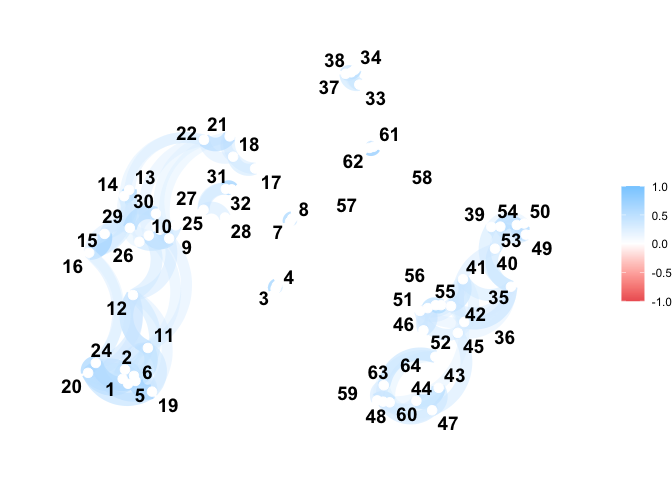
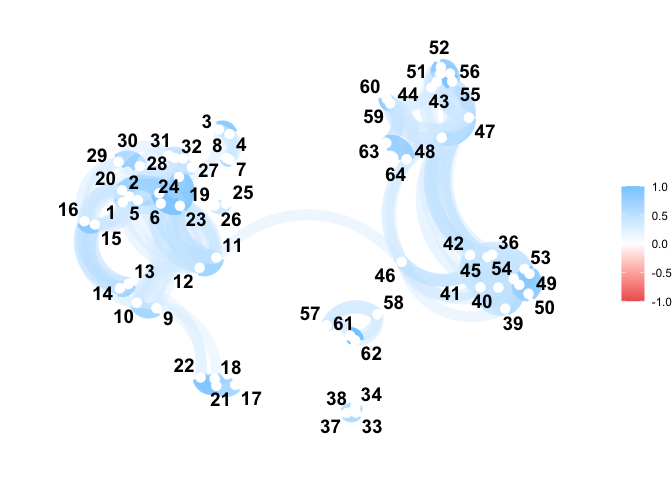
Update README.

diff --git a/README.md b/README.md
@@ -24,8 +24,9 @@ methods for QTS samples are currently:
 - [`mean()`](https://lmjl-alea.github.io/squat/reference/mean.qts_sample.html),
 - [`median()`](https://lmjl-alea.github.io/squat/reference/median.qts_sample.html),
 - distance matrix computation via
-  [`distDTW()`](https://lmjl-alea.github.io/squat/reference/distDTW.html)
-  (i.e. for now we use the dynamic time warping),
+  [`dist()`](https://lmjl-alea.github.io/squat/reference/dist.html)
+  including the possibility of separating amplitude and phase
+  variability,
 - tangent principal component analysis via
   [`prcomp()`](https://lmjl-alea.github.io/squat/reference/prcomp.qts_sample.html),
 - k-means with optional alignment via
@@ -93,8 +94,10 @@ plot(sample_and_mean, highlighted = c(rep(FALSE, 64), TRUE))
 You can compute the pairwise distance matrix (based on the DTW for now):
 
 ``` r
-D <- dist(vespa64$igp, metric = "dtw")
-C <- exp(-D / (sqrt(2) * 4 * bw.SJ(D))) |> 
+D <- dist(vespa64$igp, metric = "l2", warping_class = "srsf")
+C <- exp(-D / (sqrt(2) * sd(D)))
+C <- (C - min(C)) / diff(range(C))
+C <- C |> 
   as.matrix() |> 
   corrr::as_cordf()
 corrr::network_plot(C)
@@ -131,51 +134,14 @@ screeplot(tpca)
 You can finally perform a k-means clustering and visualize it:
 
 ``` r
-km <- kmeans(vespa64$igp, k = 2)
+km <- kmeans(vespa64$igp, n_clusters = 2, warping_class = "srsf")
 #> ℹ Computing initial centroids using kmeans++ strategy...
-#> Information about the data set:
-#>  - Number of observations: 64
-#>  - Number of dimensions: 3
-#>  - Number of points: 101
-#> 
-#> Information about cluster initialization:
-#>  - Number of clusters: 1
-#>  - Initial seeds for cluster centers:         21
-#> 
-#> Information about the methods used within the algorithm:
-#>  - Warping method: affine
-#>  - Center method: mean
-#>  - Dissimilarity method: l2
-#>  - Optimization method: bobyqa
-#> 
-#> Information about warping parameter bounds:
-#>  - Warping options:    0.1500   0.1500
-#> 
-#> Information about convergence criteria:
-#>  - Maximum number of iterations: 100
-#>  - Distance relative tolerance: 0.001
-#> 
-#> Information about parallelization setup:
-#>  - Number of threads: 1
-#>  - Parallel method: 0
-#> 
-#> Other information:
-#>  - Use fence to robustify: 0
-#>  - Check total dissimilarity: 1
-#>  - Compute overall center: 0
-#> 
-#> Running k-centroid algorithm:
-#>  - Iteration #1
-#>    * Size of cluster #0: 64
-#>  - Iteration #2
-#>    * Size of cluster #0: 64
-#>  - Iteration #3
-#>    * Size of cluster #0: 64
-#>  - Iteration #4
-#>    * Size of cluster #0: 64
-#> 
-#> Active stopping criteria:
-#>  - The total dissimilarity did not decrease.
+#> ℹ Running iteration 1...
+#> ℹ ----> Alignment step
+#> ℹ ----> Assignment step
+#> ℹ ----> Normalisation step
+#> ℹ ----> Template identification step
+#> ℹ Consolidating output...
 plot(km)
 ```
 
